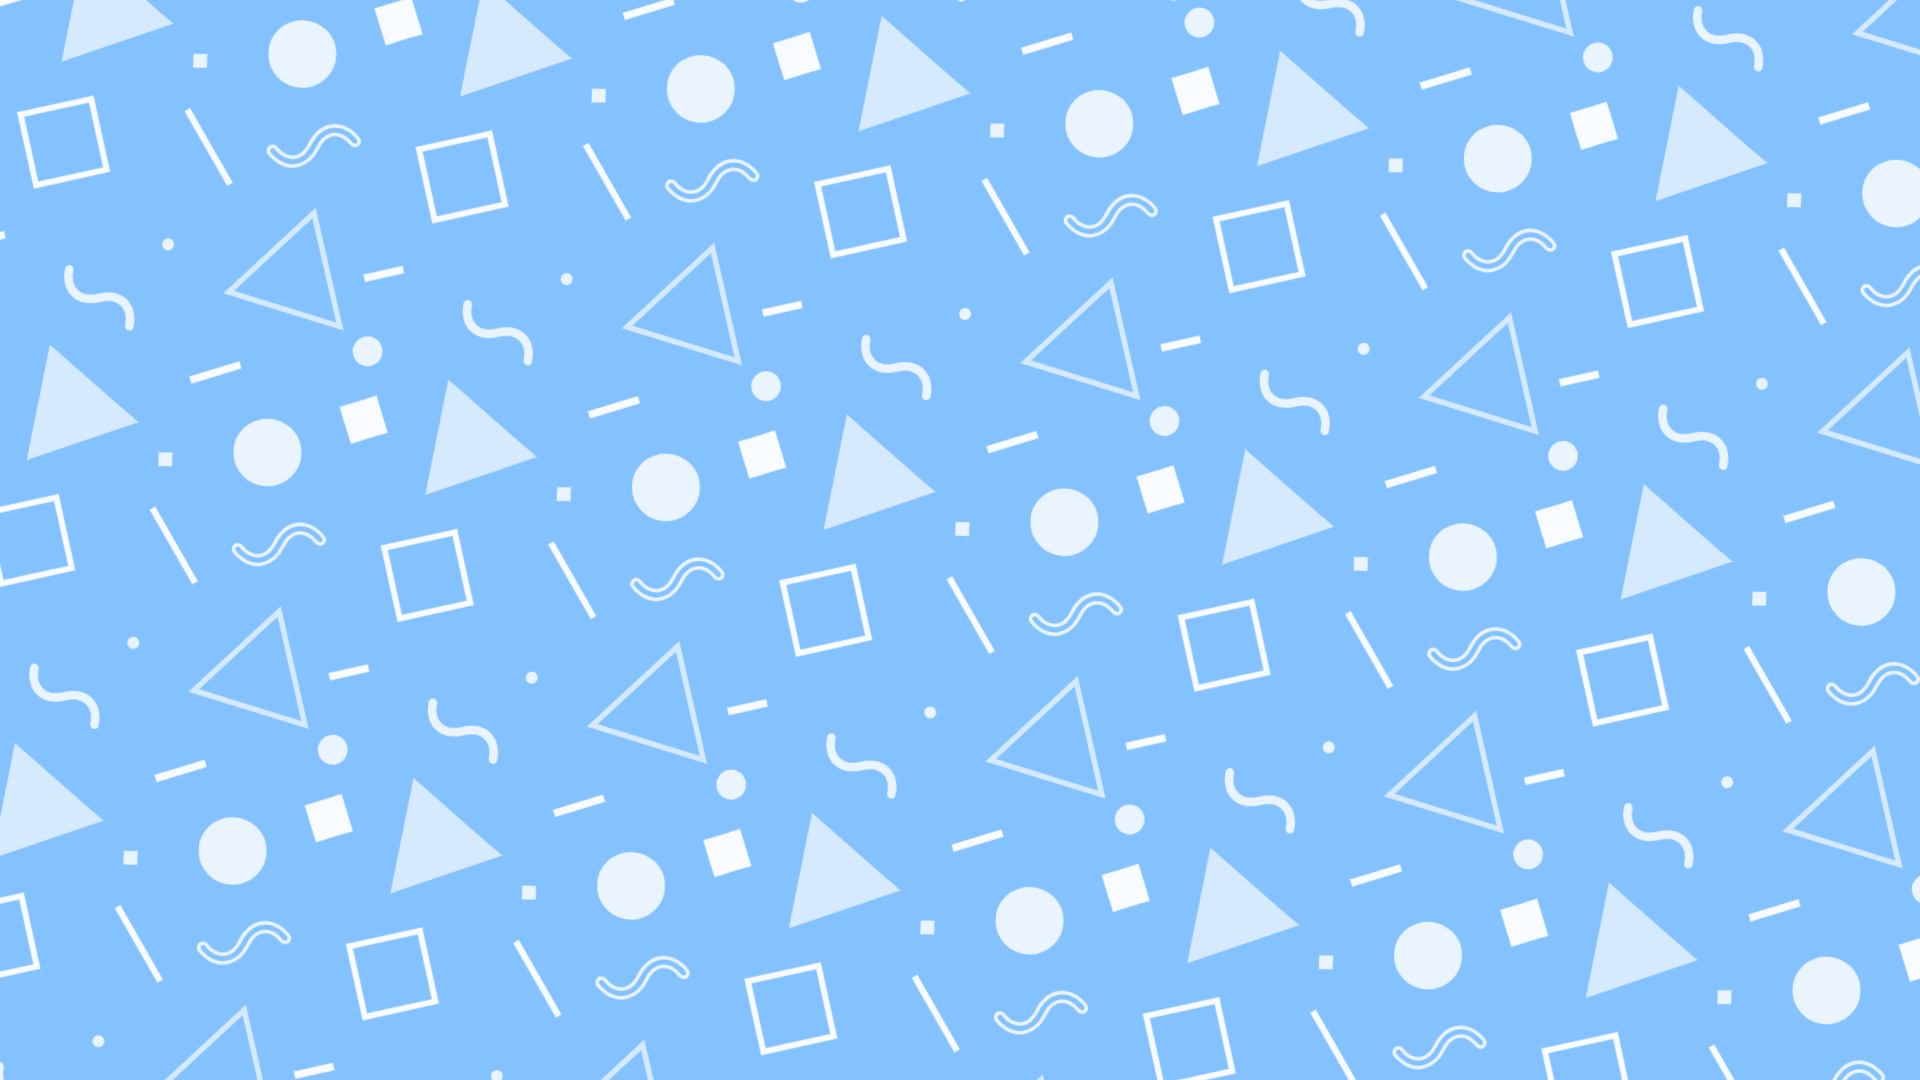
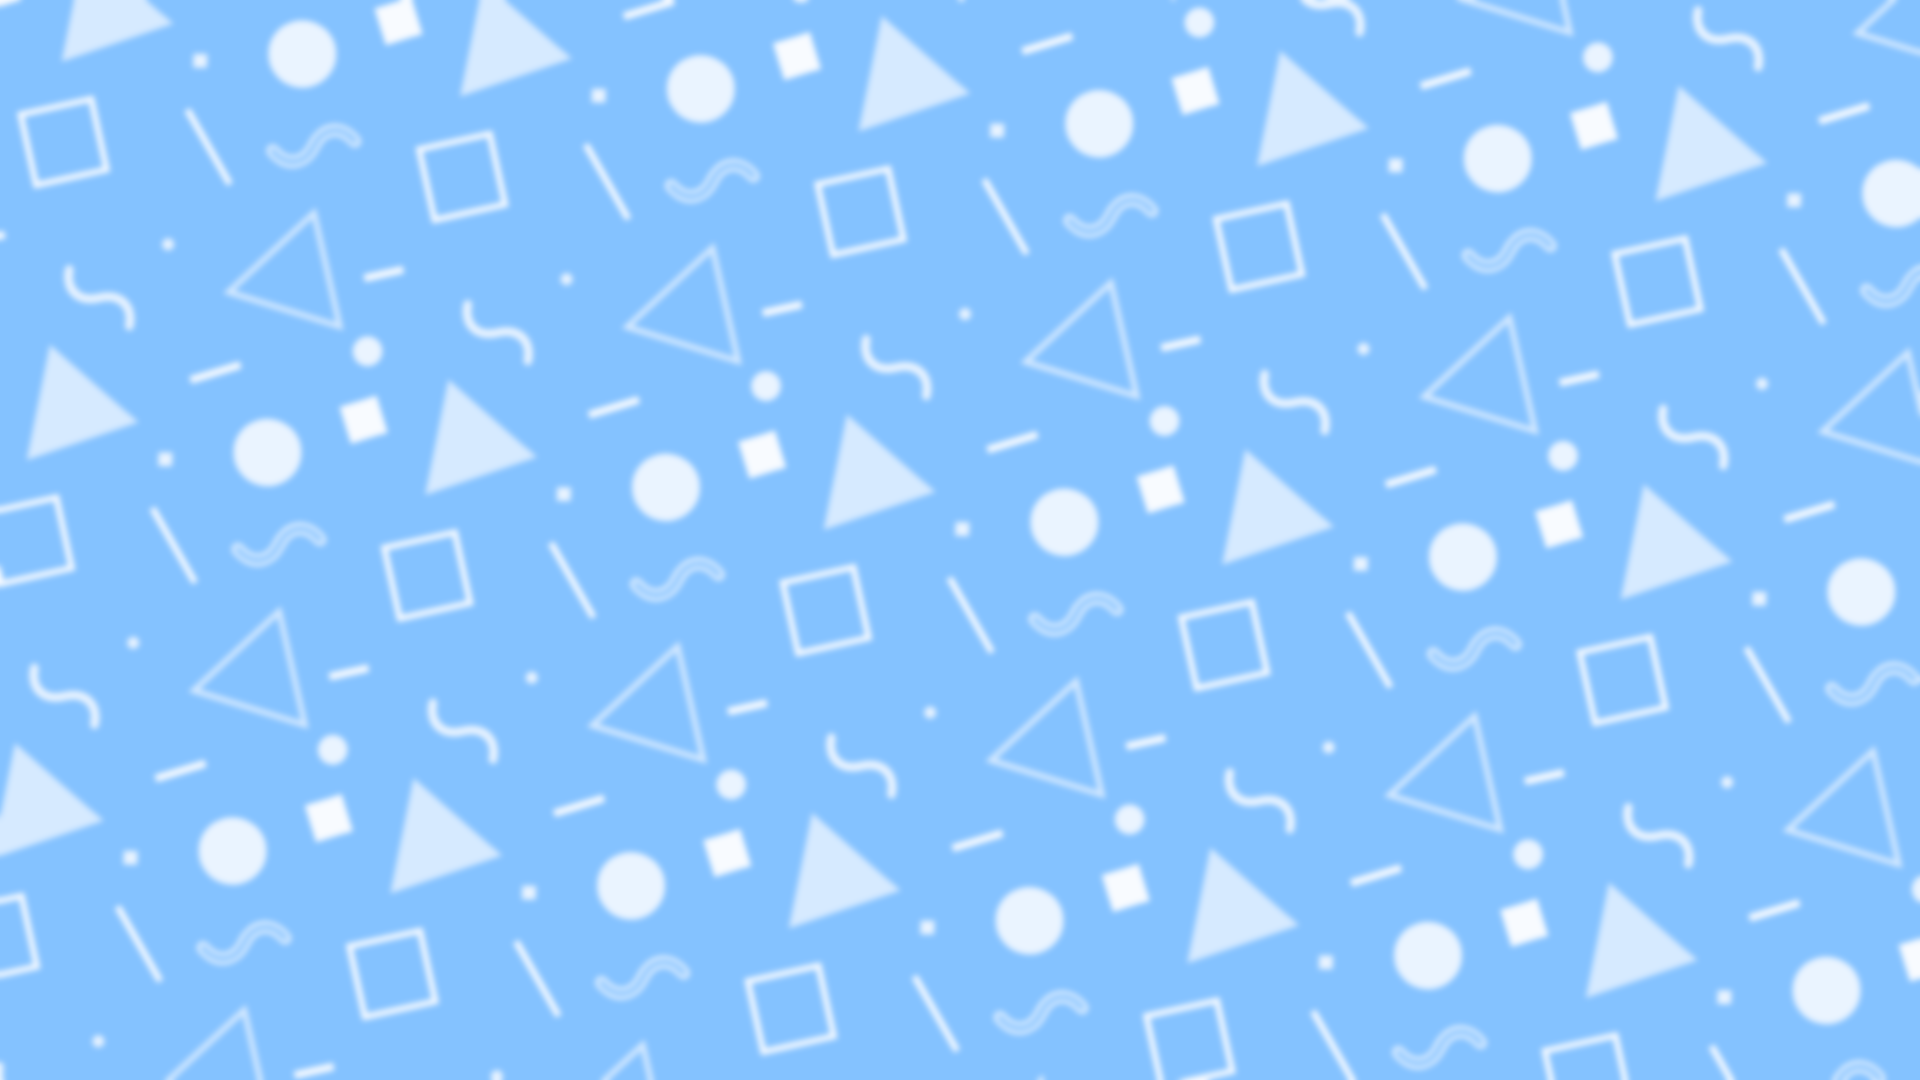
Add files via upload

diff --git a/archives/audio/a2.html b/archives/audio/a2.html
@@ -1,0 +1,38 @@
+<!DOCTYPE html>
+<html>
+<head>
+<title>如何调音量</title>
+<br />
+<a href=" Untitled-1.html " title=" *描述文本* " style="font-size:32px;<!-- 用来设置超链接文本大小 -->">返回音响耳机相关</a> 
+<br /><!-- 空行 -->
+<br /><!-- 空行 -->
+<br /><!-- 空行 -->
+<img src="img/a2.jpg" alt="Big Boat" width="520" height="440">
+<br /><!-- 空行 -->
+<br /><!-- 空行 -->
+<font size="5">是的，你可能会很奇怪，这个还有什么讲究吗？什么音量是合适的，似乎根本不用想，每个人都会有不同的标准，随便调嘛。然而并非如此。</font><br>
+<font size="5">这个问题其实类似D100外接了一个麦克风，输入源开到1-2，D100开到Max如果这样做了那么回放时你会发现底噪特别大反之亦然</font><br>
+ <font size="5">与音量大小关系最密切的是动态范围。而音源确定、功放确定的情形下，限制动态范围的是前级。</font><br>
+  <font size="5">留意发烧后级放大器似乎都没有音量旋钮，cd机和解码器也没有音量旋钮，只有前级才有。（有源音响因为内置放大器所以背部也会有旋钮）</font><br>
+ <font size="5">相信都有这个经历：前级设备声音开的小，但后级拼命放大音量，结果是提升了本底噪音，声音也虽然大了，但是噪音失真也大了.</font><br><br /><!-- 空行 -->
+ <img src="img/a21.jpg" alt="Big Boat" width="520" height="440">
+  <br />
+ <font size="7">那么如何调系统的音量是最好的呢？</font><br>
+  <font size="5">通常有三种情况</font><br>
+   <font size="5">1.你是玩电脑HiFi，那么系统中电脑系统和播放软件你可以理解为发烧音响系统中的“播放器或者转盘”主板内置声卡理解为“解码器”</font><br>
+    <font size="5">这时候将电脑内所有音量调大即可，如果你外接了解码器那么解码器的VOLUME也调到最大，也就是-000db此时调整前级的音量旋钮即可调整到适合你的音量.</font><br>
+     <font size="5">此外，如果你是有源音响，那么其他步骤和上面说的一样前级的前端设备开最大，只需要在音响上调整即可.</font><br><br>
+  <img src="img/a22.jpg" alt="Big Boat" width="520" height="440"><sup>佛山佬的解码放大一体机</sup><br>
+   <br />
+  <font size="5">2.传统HiFi,这一种情况其实和电脑HiFi一样的，只需要把播放器，转盘，解码器，或者任何音源输出设备调最大，此时调整前级的音量旋钮即可</font><br>
+ <font size="5">3.带有前级放大功能的专业声卡此时设备又是带音量旋钮的有源音箱</font><br>
+  <font size="5">通常这种专业声卡也带解码功能所以是解码+前级的合并式声卡和前级+后级的合并式功放有源音响，双方都内置了一个前级，只需要把其中一个前级直通，也就是音量最大通常都是把音箱那边最大，使用声卡的前级来调整音量.</font><br>
+ 
+ 
+ 
+ 
+ 
+ <body background="img/radiationbackground.png"> 
+
+</body>
+</html>

diff --git a/archives/radiation/Sv.html b/archives/radiation/Sv.html
@@ -15,6 +15,21 @@
 英文代号为R，其定义是在0摄氏度，760毫米汞柱气压的1立方厘米空气中造成1静电单位（3.3364×10−10库仑）正负离子的辐射强度=1伦琴单位。伦琴单位不是国际单位，但在医学等方面还是很常用。与国际单位的换算是1伦琴单位=2.58×10-4库仑/千克。
 一般用来衡量X射线和γ射线的强度。用伦琴单位衡量其他形式的辐射（例如α粒子）时可以乘上一个表示生物影响性能的Q因子。1伦琴等于1000毫伦琴 1毫伦琴等于1000微伦琴；1R＝10mSv 1mR＝10uSv 1uR＝0.01uSv<br />以上两种单位通常作为各类辐射探测仪的单位<br />放射性核素的活度 (A) 以贝克勒 (Bq) 为单位测量，1 Bq 对应于每秒 1 次衰变。为了表示高活性，还使用了系统外单位——居里 (Ci)，1 居里等于 370 亿贝克勒尔。<br />此页只讲最常见的几种其他更多请自行查阅<br />*备注：居里【Ci】和伦琴【R】已是旧单位
 </h1> 
+<h1>物理单位和名词解释：电子伏特（eV）：是一个能量单位，等效于一个电子在真空中通过 1 伏特电位差所产生的动能;</h1> 
+<h1>1MeV=1000KeV=1000000eV 电子伏与SI制的能量单位焦耳（J）的换算关系是：1 eV = 1.602176634×10−<sup>19</sup> J</h1> 
+<h1>贝克勒尔（法语：Becquerel，符号为：Bq），简称贝克。是放射性活度的国际单位制导出单位，用于衡量放射性物质或放射源的计量单位。若每秒有一个原子衰变，则这些放射性物质的活度是1贝克勒尔，这是个很小的单位，常用 的有：</h1> 
+<h1>1TBq=1000GBq=1000000MBq 1 GBq = 0.0270 Ci 1 Bq = 2.70×10−11 Ci </h1> 
+<img src="img/ci.jpg" alt="Big Boat" width="304" height="350">
+<br>
+<h1>居里（Ci）：是放射性活度的旧计量单位，定义是1g镭-226的放射性活度，例如，1克的镭226每秒能产生3.7×10<sup>10</sup>次原子核衰变，该源的放射性强度即为1居里。是一个很大的单位,可以与贝克勒尔换算 目前，该单位已经被贝可勒尔替换。</h1> 
+<h1>1 μCi = 37,000 Bq 1 Ci = 37 GBq</h1> 
+
+
+
+
+
+
+
 <br />
 <h1>不是所有的辐射仪器都叫盖革计数器</h1>
 <font size="5">我该怎么看盖革计数器的仪表盘，如何认识它？</font><br>

diff --git a/archives/audio/a1.html b/archives/audio/a1.html
@@ -1,0 +1,34 @@
+<!DOCTYPE html>
+<html>
+<head>
+<title>Audio</title>
+<br />
+<a href=" Untitled-1.html " title=" *描述文本* " style="font-size:32px;<!-- 用来设置超链接文本大小 -->">返回音响耳机相关</a> 
+<br /><!-- 空行 -->
+<br /><!-- 空行 -->
+<br /><!-- 空行 -->
+<img src="img/a1.jpg" alt="Big Boat" width="820" height="440">
+<br /><!-- 空行 -->
+<font size="5">很早之前我就认为：音频文件不是无损格式的我是不会听的、必须码率低于1000Kbps位深不低于16Bit</font><br>
+<font size="5">直到我给自己做了一次盲听测试：前后端以及回放设备不变，改变的仅仅是音频文件，同一首歌一个16Bit44Khz的标准CD级无损格式，另一个就是流媒体压缩后的MP3</font><br>
+ <font size="5">结果是如果你不是挑刺级别的去分辨的话MP3居然和无损几乎没有区别！</font><br>
+  <font size="5">是的，一开始我确实分辨不出来，后来反反复复的去听才勉强区分开来，因为是盲听所以我不知道这种区别是好是坏.结果还是分不出来•́  ‿ ,•̀</font><br>
+ <font size="5">似乎从MP3的压缩原理来看似乎很合理：它的压缩并不是简单的丢掉声音数据，而是在丢掉数据的同时，你却几乎察觉不到。</font><br>
+ <font size="5">具体原理我就不过多赘述了，简单说就是丢弃了原文件中人耳听不到的声音.众所周知人能听到的频率是有限的MP3就是丢掉了人耳听不到的那部分</font><br>
+  <font size="5">虽然早就知道了MP3的原理但是心里一直在抗拒，总认为这是"不好的声音"果然还是心理作用在趋势啊，实际区别根本没有那么大</font><br>
+ 
+ 
+ 
+ 
+ 
+ 
+ 
+ 
+ 
+ 
+ 
+ 
+ <body background="img/radiationbackground.png"> 
+
+</body>
+</html>

diff --git a/archives/radiation/Untitled-1.html b/archives/radiation/Untitled-1.html
@@ -6,7 +6,6 @@
 <a href="../../index.html" title=" *描述文本* " style="font-size:32px;<!-- 用来设置超链接文本大小 -->">回到主页</a> <!-- ../表示上一级目录 -->
 <br />
  <br />
-<br />
 <p>有关此页及子页的内容</p>
 <style> 
 .php{text-decoration:underline} 
@@ -15,6 +14,7 @@
  <body> 
 <div class="php">我不是专家，所以可能会有错误</div> 
 <font size="5">网站是为了PC端访问设计的请尽可能使用PC设备访问使用移动设备可能会遇到奇怪的问题</font><br>
+<h2>[2022/12/7保留至12/15]很多人反馈背景很杂，这次加了Gaussian blur03X的效果我个人感觉还OK？</h2>
 <p>如果您有任何疑问，请通过XiaoYisuki@vip.qq.com或<a href=" https://b23.tv/wqfnpiJ" title=" *描述文本* "> BiliBili </a> 上的@XiaoYi 与我联系。<sup>账号由一个俄罗斯人两个内地人（包括我）共享,所以回复消息的可能不是我我看到会回复请耐心等待.</sup><br></p>
 <p>欢迎分享、链接到此页面（无需联系我）</p>
 <a href=" Sv.html " title=" *描述文本* " style="font-size:32px;<!-- 用来设置超链接文本大小 -->">在此之前你需要知道的</a> 
@@ -30,8 +30,6 @@
 <a href=" pb.html " title=" *描述文本* " style="font-size:32px;<!-- 用来设置超链接文本大小 -->">辐射屏蔽</a> 
 
 
-<br />
-<br /><!-- 空行 -->
 <br />
 <br /><!-- 空行 -->
 <br />

diff --git a/archives/audio/Untitled-1.html b/archives/audio/Untitled-1.html
@@ -1,0 +1,45 @@
+<!DOCTYPE html>
+<html>
+<head>
+<title>Audio</title>
+<br />
+<a href="../../index.html" title=" *描述文本* " style="font-size:32px;<!-- 用来设置超链接文本大小 -->">回到主页</a> <!-- ../表示上一级目录 -->
+<br />
+ <br />
+<p>有关此页及子页的内容</p>
+<style> 
+.php{text-decoration:underline} 
+ </style> 
+</head> 
+ <body> 
+<div class="php">作为发烧友的一员我将写自己理解且认为正确的观点，不一定保证正确所以可能会有错误</div> 
+<font size="5">网站是为了PC端访问设计的请尽可能使用PC设备访问使用移动设备可能会遇到奇怪的问题</font><br>
+<p>欢迎分享、链接到此页面（无需联系我）</p>
+<a href=" a1.html " title=" *描述文本* " style="font-size:32px;<!-- 用来设置超链接文本大小 -->">为我自己做的盲听试验</a> 
+ <br />
+<a href=" a2.html " title=" *描述文本* " style="font-size:32px;<!-- 用来设置超链接文本大小 -->">如何调音量（音响系统）</a> 
+
+<br />
+<br /><!-- 空行 -->
+<br />
+<br /><!-- 空行 -->
+<br />
+<br /><!-- 空行 -->
+<br />
+<br /><!-- 空行 -->
+<br />
+<br /><!-- 空行 -->
+<br />
+<br /><!-- 空行 -->
+<br />
+
+
+
+
+
+
+
+ <body background="img/radiationbackground.png"> 
+
+</body>
+</html>

diff --git a/index.html b/index.html
@@ -14,13 +14,24 @@
 
 <h2>索引</h2>
 <a href=" archives/radiation/Untitled-1.html  " title=" *描述文本* " style="font-size:25px;<!-- 用来设置超链接文本大小 -->">关于辐射及辐射测量仪器相关</a> 
-<br />
+<br /><!-- 空行 -->
+<a href=" archives/audio/Untitled-1.html  " title=" *描述文本* " style="font-size:25px;<!-- 用来设置超链接文本大小 -->">音响耳机相关</a> 
+
 <br /><!-- 空行 -->
 <br />
 <br /><!-- 空行 -->
 <br />
 <br /><!-- 空行 -->
 <br />
+
+
+
+
+
+
+
+
+
 
 <a href=" about.html  " title=" *描述文本* " style="font-size:25px;<!-- 用来设置超链接文本大小 -->">关于我</a> 
 <br />

diff --git a/archives/audio/css/t1.css b/archives/audio/css/t1.css
@@ -1,0 +1,6 @@
+body {
+  font-family: Verdana, sans-serif;
+}
+u.spelling {
+  text-decoration: red wavy underline;
+}
